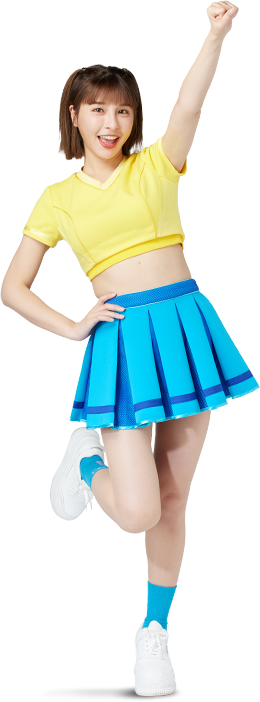
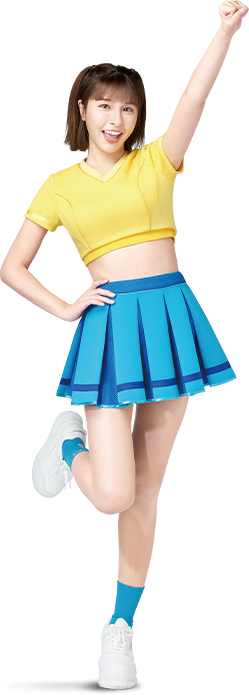
update character image

diff --git a/css/index.sass b/css/index.sass
@@ -970,7 +970,7 @@ section#product
                         z-index: 3
                         left: 50%
                         top: -130px
-                        margin-left: -840px
+                        margin-left: -828px
                         +rwd(1400px)
                             width: 1200px
                             top: -70px
@@ -995,7 +995,7 @@ section#product
                         position: absolute
                         z-index: 3
                         left: 50%
-                        top: -264px
+                        top: -234px
                         margin-left: -812px
                         +rwd(1400px)
                             width: 1400px

diff --git a/css/index.css b/css/index.css
@@ -1415,7 +1415,7 @@ section#product [class^=main] [class^=item_box] .items [class^=item] .i01 {
   z-index: 3;
   left: 50%;
   top: -130px;
-  margin-left: -840px;
+  margin-left: -828px;
 }
 @media only screen and (max-width: 1400px) {
   section#product [class^=main] [class^=item_box] .items [class^=item] .i01 {
@@ -1450,7 +1450,7 @@ section#product [class^=main] [class^=item_box] .items [class^=item] .i02 {
   position: absolute;
   z-index: 3;
   left: 50%;
-  top: -264px;
+  top: -234px;
   margin-left: -812px;
 }
 @media only screen and (max-width: 1400px) {
